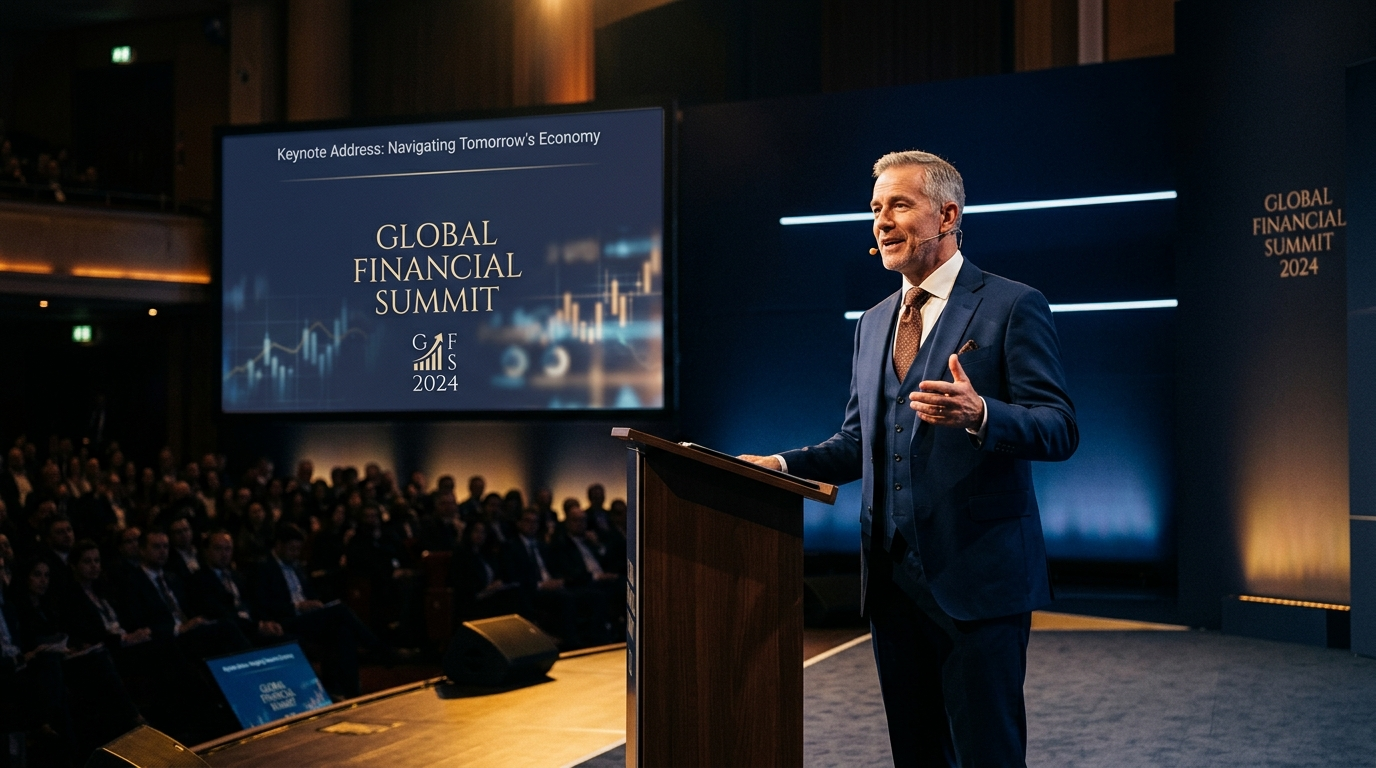
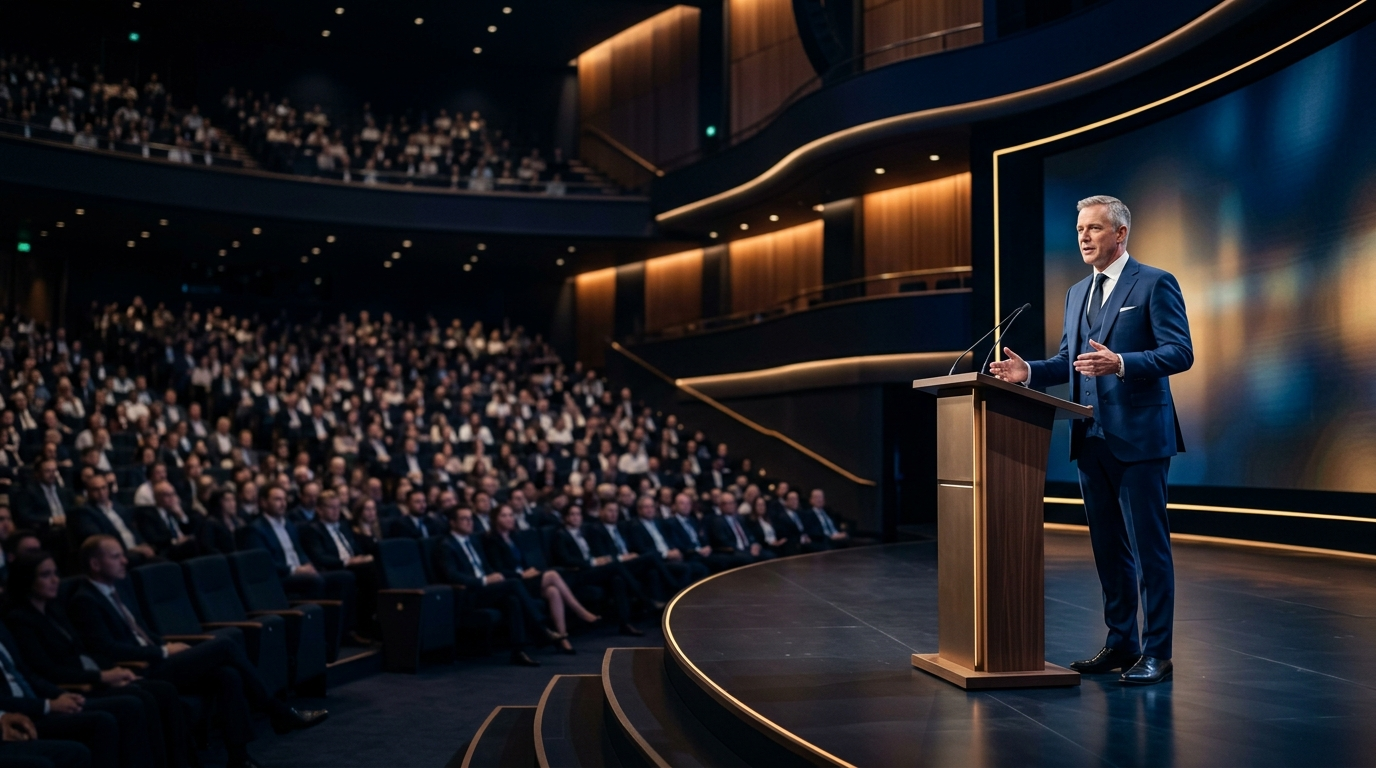
Refine navbar callout to Waterfield style, swap Gallery before Team, remove Cell Divisions and Contact Secretariat in footer, and update hero image without text

diff --git a/app/globals.css b/app/globals.css
@@ -502,60 +502,76 @@ img {
   width: 100%;
 }
 
-/* Recruitment CTA Button (Inspired by Waterfield's New Badge Callout) */
-.nav-cta-btn {
+/* Waterfield-Inspired Callout Link in Navbar (No Blue Oval, Sleek Badge & Editorial Serif) */
+.nav-callout-wrapper {
   display: flex;
   align-items: center;
   flex-shrink: 0;
 }
 
+.nav-waterfield-callout {
+  display: inline-flex;
+  flex-direction: column;
+  align-items: flex-start;
+  justify-content: center;
+  background: transparent;
+  border: none;
+  cursor: pointer;
+  padding: 1px 4px;
+  text-decoration: none;
+  line-height: 1.15;
+  transition: transform 0.2s cubic-bezier(0.16, 1, 0.3, 1);
+}
+
+.nav-waterfield-callout:hover {
+  transform: translateY(-1px);
+}
+
+.nav-callout-badge {
+  display: inline-block;
+  font-family: var(--font-sans), system-ui, -apple-system, sans-serif;
+  font-size: 9.5px;
+  font-weight: 700;
+  background-color: #9D7B48;
+  color: #FFFFFF;
+  padding: 1.5px 7.5px;
+  border-radius: 9999px;
+  text-transform: capitalize;
+  letter-spacing: 0.02em;
+  margin-bottom: 2.5px;
+  box-shadow: 0 1px 4px rgba(157, 123, 72, 0.25);
+}
+
+.nav-callout-text {
+  font-family: var(--font-cormorant), var(--font-serif), Georgia, serif;
+  font-size: 15.5px;
+  font-weight: 600;
+  color: #162447;
+  letter-spacing: 0.01em;
+  white-space: nowrap;
+  transition: color 0.18s ease;
+}
+
+.nav-waterfield-callout:hover .nav-callout-text {
+  color: #9D7B48;
+}
+
+/* Mobile Drawer PI recruitment button helper */
 .pi-recruitment-btn {
   display: inline-flex;
   align-items: center;
   gap: 7px;
-  padding: 6px 14px;
+  padding: 10px 18px;
   border-radius: 9999px;
   background: #0A1329;
   border: 1px solid rgba(197, 168, 128, 0.45);
   color: #F8FAFC;
   font-family: var(--font-sans);
-  font-size: 12.5px;
+  font-size: 13px;
   font-weight: 600;
   cursor: pointer;
   box-shadow: 0 2px 10px rgba(10, 19, 41, 0.2);
-  transition: all 0.22s cubic-bezier(0.16, 1, 0.3, 1);
-  white-space: nowrap;
-}
-
-.pi-recruitment-btn:hover {
-  transform: translateY(-1px);
-  background: #112147;
-  border-color: #C5A880;
-  box-shadow: 0 4px 16px rgba(10, 19, 41, 0.35);
-}
-
-.pi-new-badge {
-  font-size: 9.5px;
-  font-family: var(--font-mono);
-  background-color: #C5A880;
-  color: #070D1E;
-  font-weight: 800;
-  padding: 1.5px 5px;
-  border-radius: 4px;
-  text-transform: uppercase;
-  letter-spacing: 0.05em;
-  line-height: 1.2;
-}
-
-.pi-batch-tag {
-  font-size: 10px;
-  font-family: var(--font-mono);
-  color: #C5A880;
-  font-weight: 600;
-}
-
-.pi-label-text {
-  letter-spacing: -0.01em;
+  transition: all 0.22s ease;
 }
 
 /* Mobile Navigation Drawer & Hamburger Trigger */
@@ -1486,7 +1502,7 @@ img {
 
 .footer-grid-layout {
   display: grid;
-  grid-template-columns: 1.8fr 1.1fr 1.1fr 1.1fr 1.3fr;
+  grid-template-columns: 1.8fr 1.2fr 1.2fr 1.4fr;
   gap: 36px;
   padding-bottom: 50px;
   border-bottom: 1px solid rgba(226, 232, 240, 0.1);

diff --git a/components/Footer.tsx b/components/Footer.tsx
@@ -249,46 +249,7 @@ export default function Footer() {
             </ul>
           </div>
 
-          {/* Column 3: Specialized Pillars */}
-          <div>
-            <h4
-              className="font-metadata-mono"
-              style={{
-                fontSize: "12px",
-                color: "var(--gold-oxford)",
-                letterSpacing: "0.12em",
-                textTransform: "uppercase",
-                marginBottom: "18px",
-                fontWeight: 700,
-              }}
-            >
-              CELL DIVISIONS
-            </h4>
-            <ul style={{ listStyle: "none", padding: 0, margin: 0, display: "flex", flexDirection: "column", gap: "10px" }}>
-              <li>
-                <Link href="/about#finance" target="_blank" rel="noopener noreferrer" style={{ fontSize: "13.5px", color: "var(--platinum-muted)", transition: "color 0.15s" }}>
-                  Finance & Capital Markets
-                </Link>
-              </li>
-              <li>
-                <Link href="/about#consulting" target="_blank" rel="noopener noreferrer" style={{ fontSize: "13.5px", color: "var(--platinum-muted)", transition: "color 0.15s" }}>
-                  Strategy & Consulting
-                </Link>
-              </li>
-              <li>
-                <Link href="/about#competition" target="_blank" rel="noopener noreferrer" style={{ fontSize: "13.5px", color: "var(--platinum-muted)", transition: "color 0.15s" }}>
-                  National Competitions
-                </Link>
-              </li>
-              <li>
-                <Link href="/about#community" target="_blank" rel="noopener noreferrer" style={{ fontSize: "13.5px", color: "var(--platinum-muted)", transition: "color 0.15s" }}>
-                  Ecosystem & Venture
-                </Link>
-              </li>
-            </ul>
-          </div>
-
-          {/* Column 4: Useful Links */}
+          {/* Column 3: Useful Links */}
           <div>
             <h4
               className="font-metadata-mono"
@@ -331,7 +292,7 @@ export default function Footer() {
               </li>
               <li>
                 <Link href="/contact" target="_blank" rel="noopener noreferrer" style={{ fontSize: "13.5px", color: "var(--platinum-muted)", transition: "color 0.15s" }}>
-                  Contact Secretariat
+                  Contact Us
                 </Link>
               </li>
               <li>

diff --git a/components/Navbar.tsx b/components/Navbar.tsx
@@ -58,8 +58,8 @@ export default function Navbar() {
     { label: "Home", href: "/" },
     { label: "About Us", href: "/about" },
     { label: "Events", href: "/events" },
-    { label: "Team", href: "/team" },
     { label: "Gallery", href: "/gallery" },
+    { label: "Team", href: "/team" },
     { label: "Contact Us", href: "/contact" },
   ];
 
@@ -147,18 +147,17 @@ export default function Navbar() {
                 })}
               </nav>
 
-              {/* Recruitment CTA Button (Inspired by Waterfield's New Badge Callout) */}
-              <div className="nav-cta-btn">
+              {/* Recruitment Callout (Waterfield-Inspired Serif Text with Top Bronze Pill) */}
+              <div className="nav-callout-wrapper">
                 <button
                   type="button"
                   onClick={() => setPiModalOpen(true)}
-                  className="pi-recruitment-btn"
+                  className="nav-waterfield-callout"
                   aria-label="Register for Personal Interviews (PI) - Y-26 Batch"
                   title="Y-26 Batch Recruitments Open · Register for Personal Interviews"
                 >
-                  <span className="pi-new-badge">New</span>
-                  <span className="pi-label-text">Register for PI</span>
-                  <span className="pi-batch-tag">Y-26</span>
+                  <span className="nav-callout-badge">New</span>
+                  <span className="nav-callout-text">Register for PI</span>
                 </button>
               </div>
 
